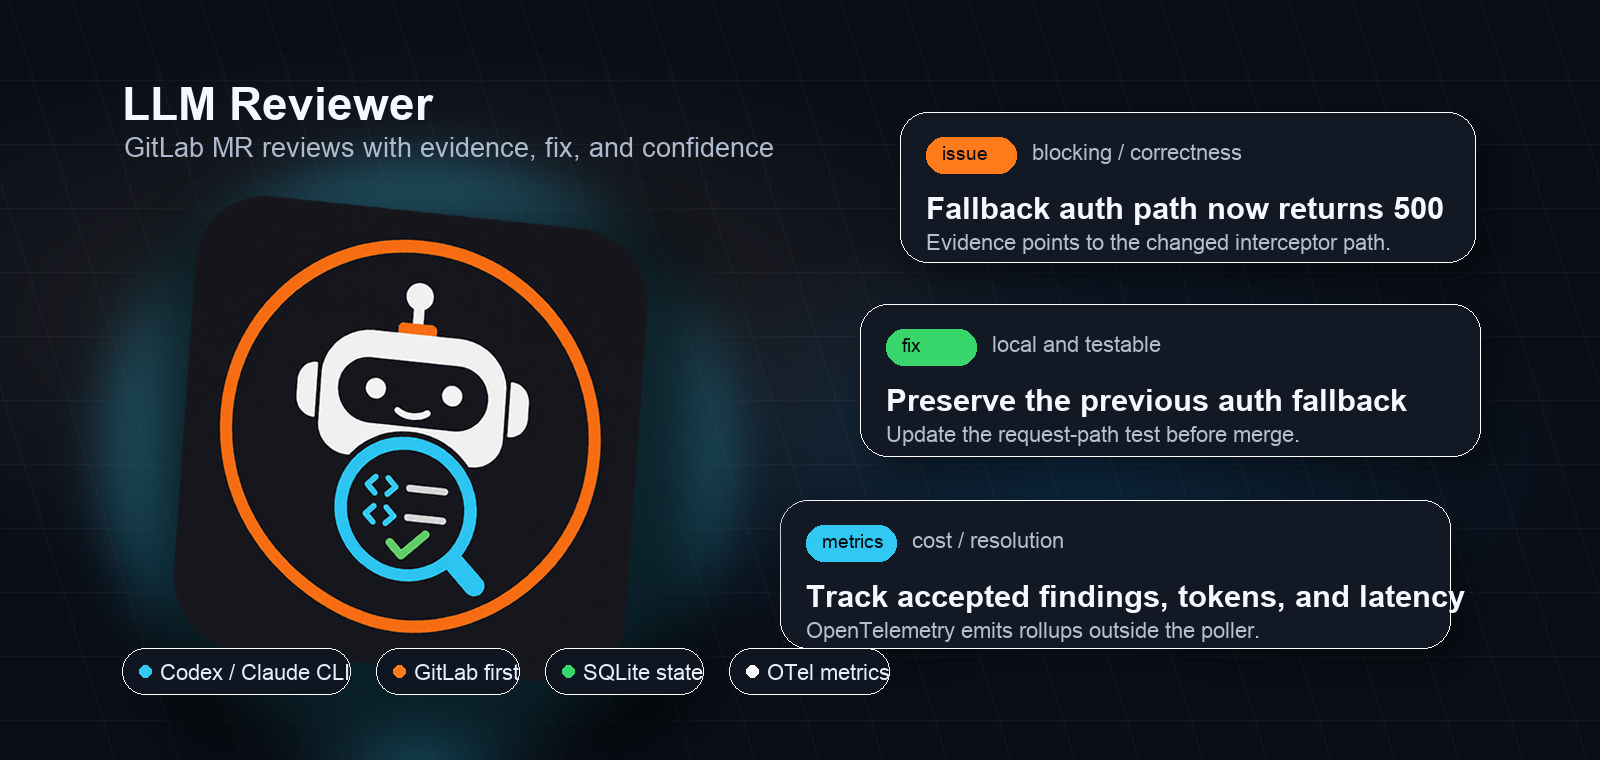
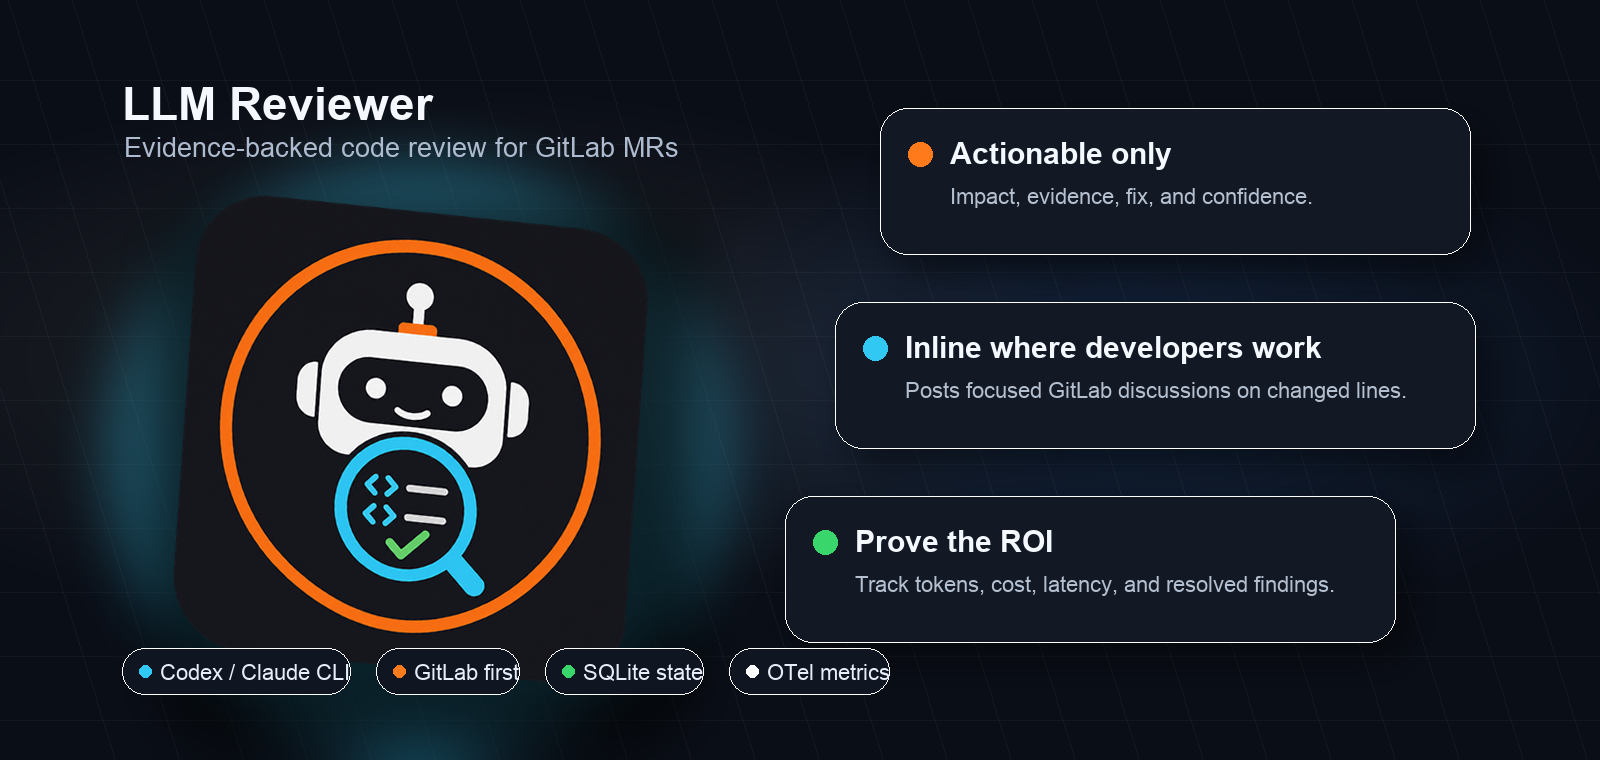
Polish README visuals

diff --git a/README.md b/README.md
@@ -31,13 +31,14 @@ thread.
 ## What It Does
 
 ```mermaid
-flowchart LR
-    A["Poll GitLab projects"] --> B["Find eligible MRs"]
-    B --> C["Fork review worker"]
-    C --> D["Run Codex or Claude skill"]
-    D --> E["Parse structured findings"]
-    E --> F["Post inline GitLab discussions"]
-    F --> G["Persist state and telemetry"]
+flowchart TB
+    A["GitLab merge requests"]
+    B["Poller and SQLite state"]
+    C["Codex or Claude review skill"]
+    D["Inline GitLab discussions"]
+    E["OpenTelemetry and outcome sync"]
+
+    A --> B --> C --> D --> E
 ```
 
 The poller does not try to be a code-review brain. It orchestrates GitLab,
